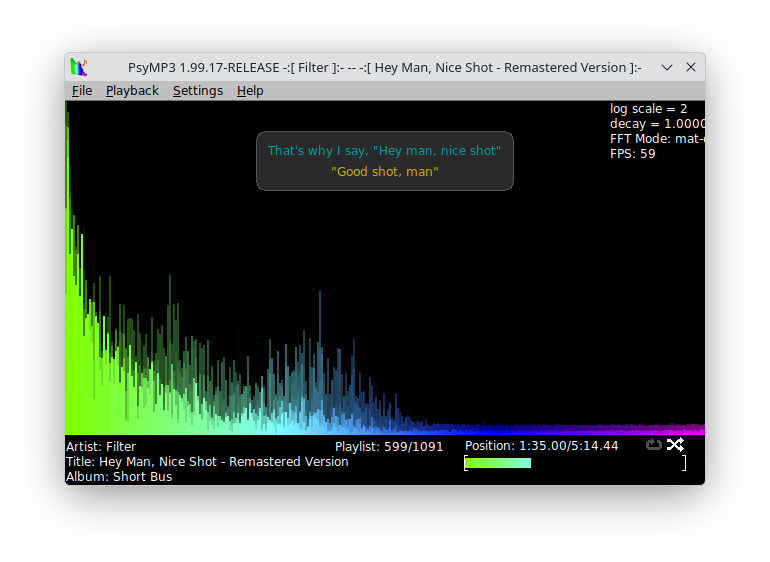
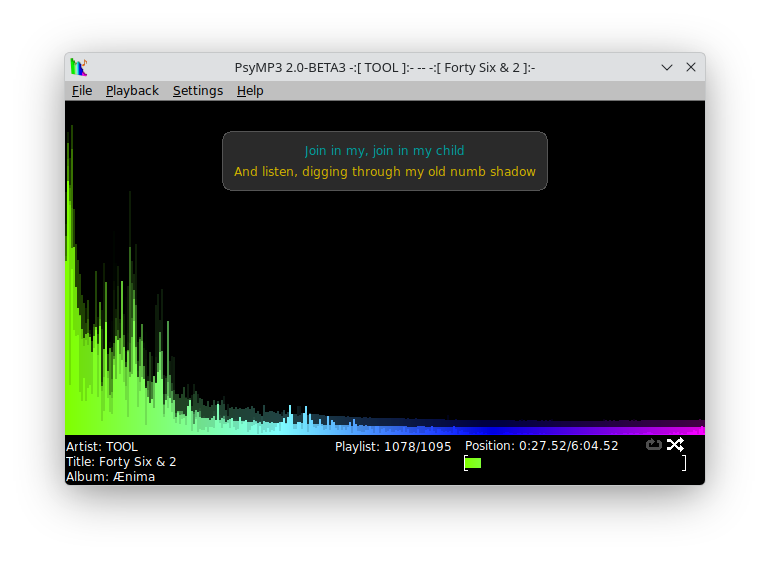
Docs: Update the README screenshot to 2.0-BETA3
Now showing "Forty Six & 2" (TOOL, Aenima) with the spectrum
analyzer, synced lyrics overlay, and now-playing readout.

diff --git a/README.md b/README.md
@@ -2,7 +2,7 @@
 
 A simplistic audio media player with a flashy Fourier transform.
 
-![PsyMP3 playing "Hey Man, Nice Shot" by Filter, showing the spectrum analyzer, synced lyrics, and now-playing info](docs/psymp3-screenshot.png)
+![PsyMP3 2.0-BETA3 playing "Forty Six & 2" by TOOL, showing the spectrum analyzer, synced lyrics, and now-playing info](docs/psymp3-screenshot.png)
 
 ## Table of Contents
 
